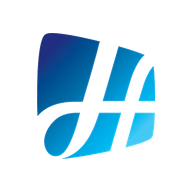
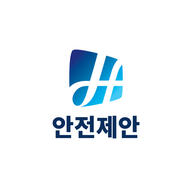
설치 카드 설명 한 줄, 앱 아이콘(로고 축소+안전제안 명칭), 안드로이드 앱 1.0.1(실행 직후 종료 원인 제거: 코드 축소 해제·화면 방향 강제 제거·targetSdk 35)
Claude-Session: https://claude.ai/code/session_015qEJTCF18wHX6rThXa9dmK

Changed region(s): [[0.1875, 0.1562, 0.8125, 0.8438], [0.7188, 0.3438, 0.8125, 0.5312]]

diff --git a/docs/index.html b/docs/index.html
@@ -867,6 +867,18 @@ span.rt-hi{background:#DC2626;} span.rt-md{background:#EA7A0C;} span.rt-lo{backg
 .tl-del.armed{color:#fff;background:var(--red);border-color:transparent;}
 .timeline li.k-edit .tx{color:var(--ink-soft);}
 .tl-hint{display:block;margin-top:3px;font-family:inherit;letter-spacing:0;text-transform:none;font-size:11.5px;font-weight:600;color:var(--ink-faint);}
+
+/* ===== v4.9: 설치 카드 설명 — 한 줄 ===== */
+.install-card .ic-text{container-type:inline-size;}
+.install-card .ic-text span{white-space:nowrap;overflow:hidden;text-overflow:ellipsis;font-size:clamp(8.5px,2.9vw,11.5px);letter-spacing:-.02em;}
+@supports (container-type:inline-size){ .install-card .ic-text span{font-size:clamp(8px,6.1cqw,12px);} }
+@media (max-width:370px){
+  .install-card{gap:8px;padding:10px 30px 10px 10px;}
+  .install-card .ic-icon{width:36px;height:36px;border-radius:10px;}
+  .install-card .ic-icon img{height:24px;}
+  .install-card .ic-btn{padding:8px 11px;font-size:13px;}
+  .install-card .ic-close{top:3px;right:3px;}
+}
 </style>
 </head>
 <body>
@@ -941,7 +953,7 @@ span.rt-hi{background:#DC2626;} span.rt-md{background:#EA7A0C;} span.rt-lo{backg
 
     <div class="install-card hidden" id="installCard">
       <div class="ic-icon"><img alt="" data-logo></div>
-      <div class="ic-text"><b>앱으로 설치하기</b><span id="installSub">홈 화면 아이콘으로 주소창 없이 전체화면 실행</span></div>
+      <div class="ic-text"><b>앱으로 설치하기</b><span id="installSub">주소창 없이 앱처럼 전체화면 실행</span></div>
       <button type="button" class="btn btn-primary ic-btn" id="installBtn">설치</button>
       <button type="button" class="ic-close" id="installClose" aria-label="닫기">✕</button>
     </div>
@@ -3185,9 +3197,9 @@ function refreshInstallCard(){
   var show = mobile && !isStandalone() && !installDismissed();
   card.classList.toggle('hidden', !show);
   if (!show) return;
-  $('#installSub').textContent = IN_APP ? '카카오톡 등 앱 안에서는 설치가 안 됩니다. 눌러서 방법 보기'
-    : INSTALL.evt ? '버튼을 누르면 바로 설치됩니다 (주소창 없는 전체화면)'
-    : '홈 화면 아이콘으로 주소창 없이 전체화면 실행';
+  $('#installSub').textContent = IN_APP ? '앱 안에서는 설치 불가 · 눌러서 방법 보기'
+    : INSTALL.evt ? '누르면 바로 설치 · 주소창 없는 전체화면'
+    : '주소창 없이 앱처럼 전체화면 실행';
 }
 window.addEventListener('beforeinstallprompt', function(e){ e.preventDefault(); INSTALL.evt = e; refreshInstallCard(); });
 window.addEventListener('appinstalled', function(){ INSTALL.evt = null; refreshInstallCard(); toast('홈 화면에 설치되었습니다. 이제 아이콘으로 실행하세요'); });

diff --git a/android/app/src/main/java/io/github/gmazellan123byte/ehsproposal/LauncherActivity.java b/android/app/src/main/java/io/github/gmazellan123byte/ehsproposal/LauncherActivity.java
@@ -31,15 +31,8 @@ public class LauncherActivity
     @Override
     protected void onCreate(Bundle savedInstanceState) {
         super.onCreate(savedInstanceState);
-        // Setting an orientation crashes the app due to the transparent background on Android 8.0
-        // Oreo and below. We only set the orientation on Oreo and above. This only affects the
-        // splash screen and Chrome will still respect the orientation.
-        // See https://github.com/GoogleChromeLabs/bubblewrap/issues/496 for details.
-        if (Build.VERSION.SDK_INT > Build.VERSION_CODES.O) {
-            setRequestedOrientation(ActivityInfo.SCREEN_ORIENTATION_USER_PORTRAIT);
-        } else {
-            setRequestedOrientation(ActivityInfo.SCREEN_ORIENTATION_UNSPECIFIED);
-        }
+        // 1.0.1: 투명 시작 화면에서 화면 방향을 강제로 고정하면 일부 기기에서 앱이 강제 종료될 수 있어 제거.
+        // 세로 방향은 매니페스트의 SCREEN_ORIENTATION 설정으로 브라우저(Chrome)가 적용함.
     }
 
     @Override
